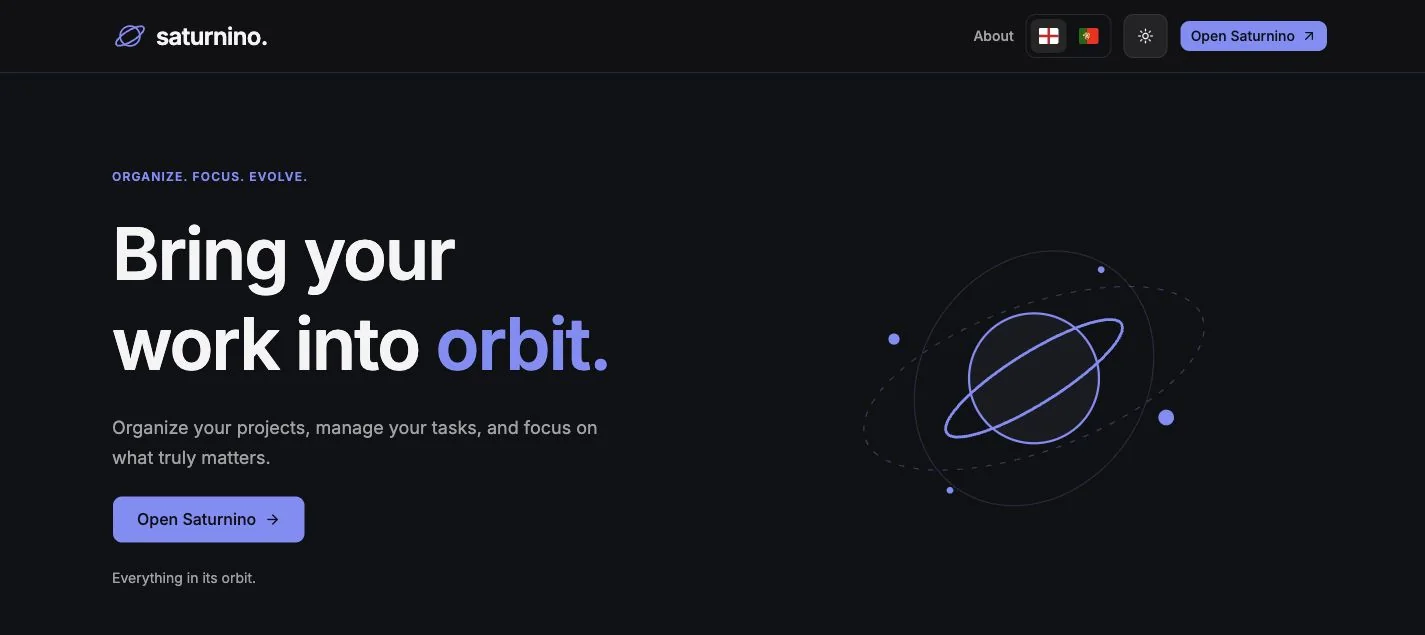
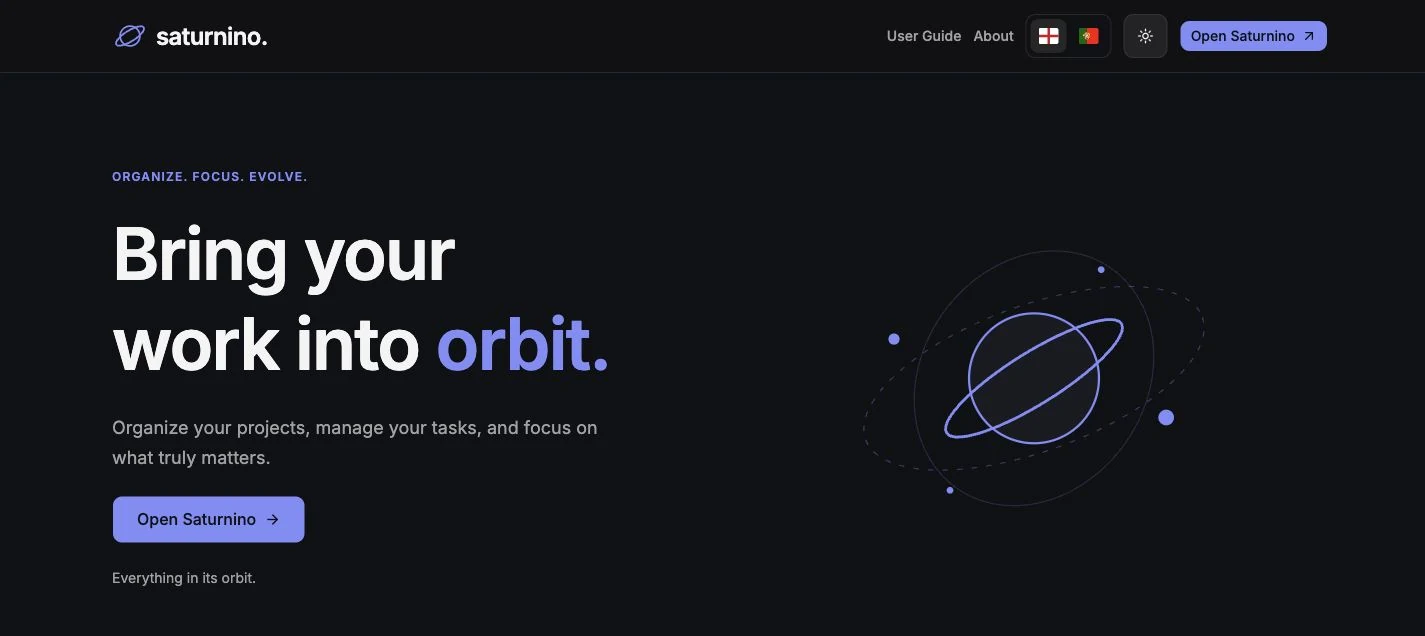
docs: refresh README screenshots for v1.3.0 (#36)
Refresh published landing and User Guide previews while preserving existing workspace screenshots and README sections. Validate formatting, WebP decoding and real GitHub rendering.

diff --git a/README.md b/README.md
@@ -18,7 +18,9 @@ New here? Follow the bilingual [User Guide](https://saturnino-app.vercel.app/gui
 
 Real application screenshots using fictional project data.
 
-![Saturnino landing page with its orbital branding and hero in dark mode](docs/images/landing-desktop-dark.webp)
+![Saturnino landing page in dark mode, showing User Guide and About navigation with its orbital hero](docs/images/landing-desktop-dark.webp)
+
+![User Guide in dark mode, showing chapter navigation, Kanban instructions and a real example board](docs/images/user-guide-desktop-dark.webp)
 
 ![Desktop Kanban board in dark mode](docs/images/kanban-desktop-dark.webp)
 
